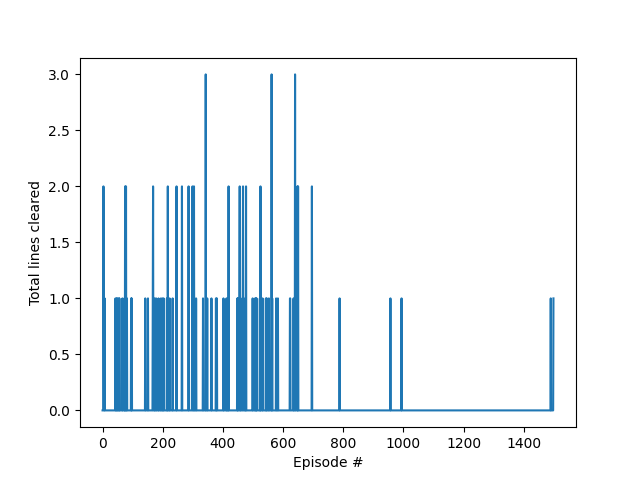
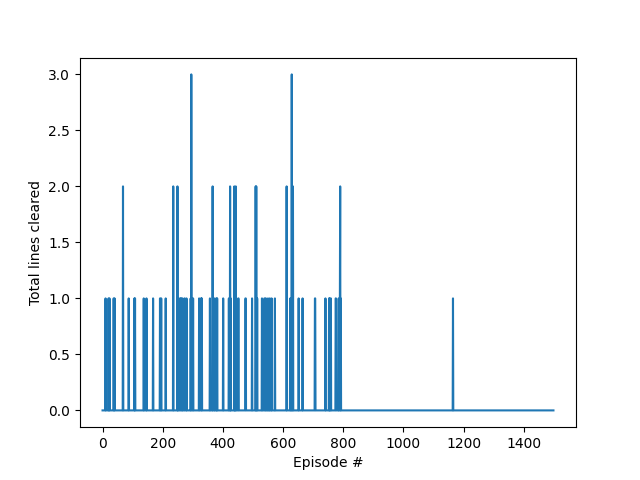
more changes to rewards

diff --git a/agent.py b/agent.py
@@ -50,6 +50,7 @@ class Agent(object):
         model.add(layers.Conv2D(32, (3, 3), padding='same', activation='relu', input_shape=(26, 10, 1)))
         model.add(layers.MaxPooling2D((2, 2)))
         model.add(layers.Conv2D(64, (3, 3), padding='same', activation='relu'))
+        model.add(layers.MaxPooling2D((2, 2)))
         model.add(layers.Flatten())
         model.add(layers.Dense(64, activation='relu'))
         model.add(layers.Dense(self.n_actions, activation='linear'))
@@ -80,7 +81,7 @@ class Agent(object):
                 if draw_screen:
                     time.sleep(DRAW_WAIT_TIME)
                 score, reward = game.matris.computer_update(rotation, position)
-                reward += 5
+                reward += 10
                 total_score += score
                 total_reward += reward
                 next_state = game.matris.current_state()
@@ -93,7 +94,8 @@ class Agent(object):
                     time.sleep(DRAW_WAIT_TIME)
                     game.redraw()
             except GameOver:
-                next_state = game.matris.current_state()
+                # next_state = game.matris.current_state()
+                next_state = np.ones_like(game.matris.current_state())
                 self.store_episode(current_state, action, -1000, next_state, True)
                 if not always_explore:
                     self.update_exploration_probability()

diff --git a/matris.py b/matris.py
@@ -123,8 +123,9 @@ class Matris(object):
         for col in range(MATRIX_WIDTH - 1):
             bumpiness += np.abs(heights[col] - heights[col + 1])
         
+        height_difference = np.max(heights) - np.min(heights)
 
-        self.fitness = (-.18 * summed_heights) + (200 * num_lines) + (-.54 * holes) +  (-.36 * bumpiness)
+        self.fitness = (-.18 * summed_heights) + (200 * num_lines) + (-.54 * holes) +  (-.36 * bumpiness) + (-1.5 * height_difference)
 
     # converts a Tetromino to a 2D np array containing 1's and 0's
     def piece_to_array(self, piece: Tetromino):
